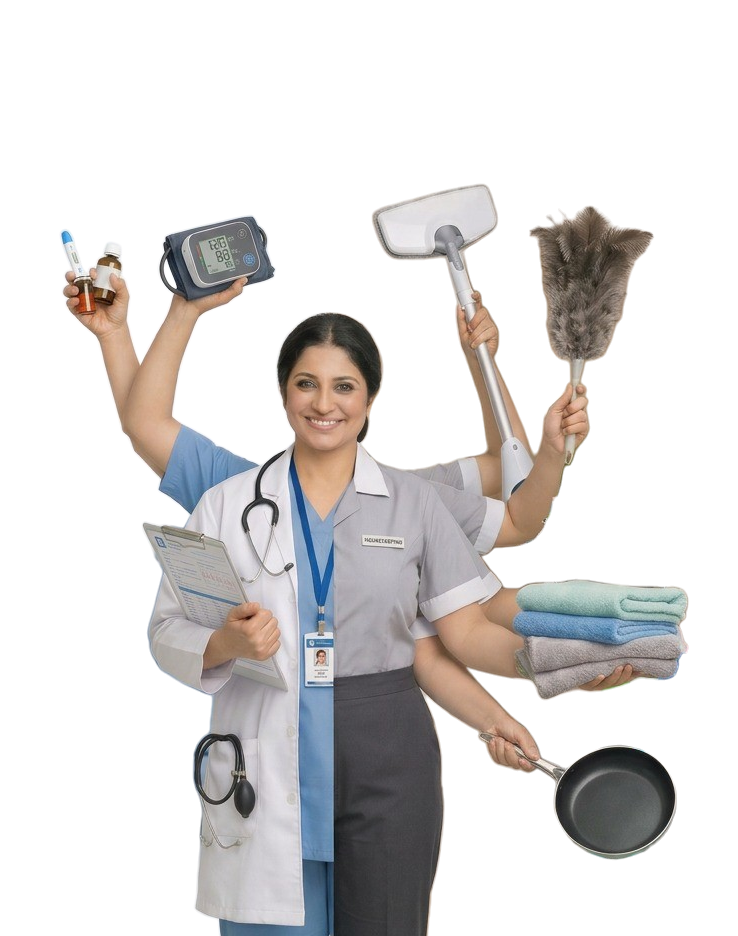
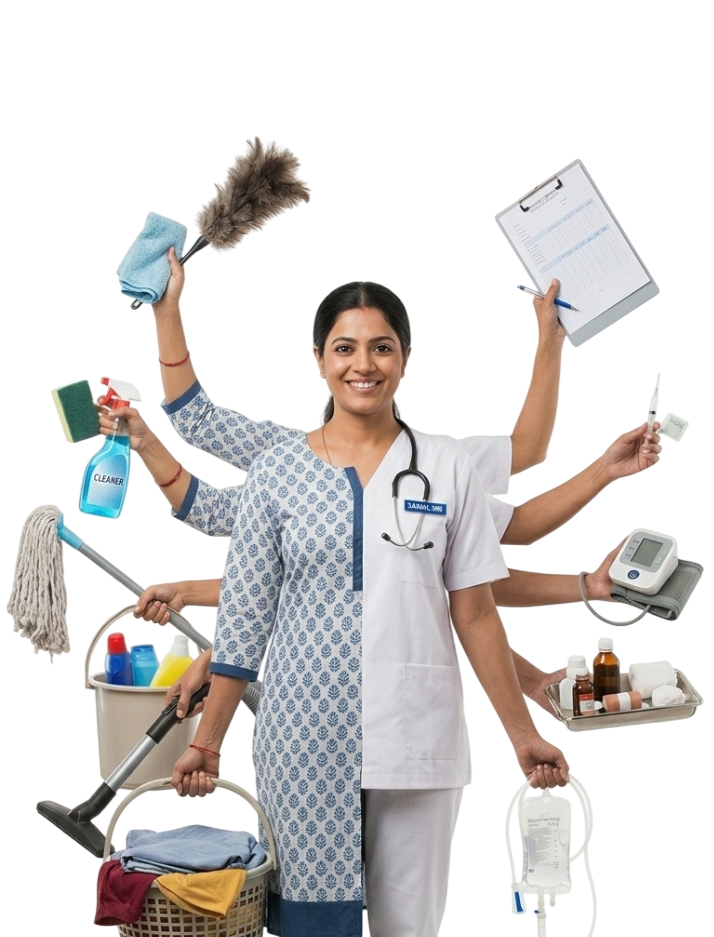
All Complete

diff --git a/assets/js/main.js b/assets/js/main.js
@@ -481,7 +481,7 @@ function openCreateFollowUpModal(leadId, leadName) {
                     
                     <div class="form-group">
                         <label>Comments</label>
-                        <textarea style="width: 100%" rows="7" name="comments" placeholder="Enter follow-up notes..."></textarea>
+                        <textarea style="width: 100%; padding: 10px" rows="7" name="comments" placeholder="Enter follow-up notes..."></textarea>
                     </div>
                     
                     <div class="form-group">
@@ -1530,8 +1530,8 @@ async function viewProfessional(professionalId) {
         const prof = data.data;
         // console.log('Professional data:', prof);
 
-        const profileUrl = `${window.location.origin}/freelance/public_html/professional-profile.php?slug=${prof.professional_slug}`;
-        // const profileUrl = `${window.location.origin}/professional-profile.php?slug=${prof.professional_slug}`;
+        // const profileUrl = `${window.location.origin}/freelance/public_html/professional-profile.php?slug=${prof.professional_slug}`;
+        const profileUrl = `${window.location.origin}/professional-profile.php?slug=${prof.professional_slug}`;
 
         const html = `
             <div id="viewProfessionalModal" class="modal active">

diff --git a/assets/css/style2.css b/assets/css/style2.css
@@ -187,11 +187,17 @@ input[type="checkbox"]:focus {
 body {
   font-size: 16px;
   color: var(--dark);
-  background: radial-gradient(
-    circle at 90% 80%,
-    rgba(177, 255, 153, 0.3) 200px 200px,
-    transparent 400px
-  );
+  background:
+    radial-gradient(
+      circle at 110% 0%,
+      rgba(177, 255, 153, 0.3) 200px,
+      transparent 400px
+    ),
+    radial-gradient(
+      circle at 90% 80%,
+      rgba(177, 255, 153, 0.3) 200px,
+      transparent 400px
+    );
 }
 
 table {

diff --git a/index.html b/index.html
@@ -297,7 +297,7 @@
     <section class="sec1">
         <div class="sec1-inner flex-center-center container reveal">
             <div class="sec1-left flex-1 center">
-                <img src="./assets/images/all-rounder.png" alt="All Rounder">
+                <img src="./assets/images/all-rounder-2.png" alt="All Rounder">
 
             </div>
             <div class="sec1-right flex-1 center">

diff --git a/includes/config.php b/includes/config.php
@@ -1,20 +1,20 @@
 <?php
 
 // Database Configuration
-define('DB_HOST', 'localhost');
-define('DB_USER', 'servon_user');
-define('DB_PASS', 'localhost');
-define('DB_NAME', 'servon_db');
+// define('DB_HOST', 'localhost');
+// define('DB_USER', 'servon_user');
+// define('DB_PASS', 'localhost');
+// define('DB_NAME', 'servon_db');
 
-define('BASE_URL', 'http://localhost/freelance/public_html/');
+// define('BASE_URL', 'http://localhost/freelance/public_html/');
 
 // Database Configuration
-// define('DB_HOST', 'localhost');
-// define('DB_USER', 'u161425727_servon_user');
-// define('DB_PASS', 'Tarun.Servon@123');
-// define('DB_NAME', 'u161425727_servon_db');
+define('DB_HOST', 'localhost');
+define('DB_USER', 'u161425727_servon_user');
+define('DB_PASS', 'Tarun.Servon@123');
+define('DB_NAME', 'u161425727_servon_db');
 
-// define('BASE_URL', 'https://servon.in/');
+define('BASE_URL', 'https://servon.in/');
 
 // Common Part 
 define('ADMIN_URL', BASE_URL . 'admin/');

diff --git a/admin/leads.php b/admin/leads.php
@@ -46,9 +46,10 @@ if (!empty($created_before)) {
     }
 }
 
-// For non-admin users, show only their assigned leads
+// For non-admin users, show their assigned leads plus fresh/unassigned leads
 if ($_SESSION['user_role'] != 'Admin') {
-    $where[] = "responder_id = " . intval($_SESSION['user_id']);
+    // Sales users can see: leads assigned to them OR fresh unassigned leads
+    $where[] = "(responder_id = " . intval($_SESSION['user_id']) . " OR status = 'Fresh')";
 }
 
 // Combine where conditions
